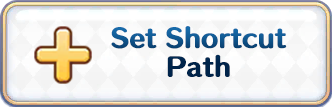
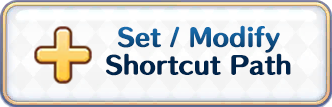
Modify Launch setting from

Changed region(s): [[0.3313, 0.2243, 0.8735, 0.5047], [0.3012, 0.5047, 0.8735, 0.729]]

diff --git a/PriconneReTLInstaller/LauncherForm.Designer.cs b/PriconneReTLInstaller/LauncherForm.Designer.cs
@@ -36,9 +36,6 @@
             this.launcherComboBox = new System.Windows.Forms.ComboBox();
             this.setFastlauncherLinkLabel = new System.Windows.Forms.Label();
             this.dmmfastlauncherLabel = new System.Windows.Forms.Label();
-            this.saveButton = new System.Windows.Forms.Button();
-            this.launcherLabel = new System.Windows.Forms.Label();
-            this.currentLauncherLabel = new System.Windows.Forms.Label();
             this.panel1 = new System.Windows.Forms.Panel();
             this.shortcutAddButton = new System.Windows.Forms.Button();
             this.shortcutRemoveButton = new System.Windows.Forms.Button();
@@ -128,62 +125,20 @@
             this.dmmfastlauncherLabel.BackColor = System.Drawing.Color.Transparent;
             this.dmmfastlauncherLabel.Font = new System.Drawing.Font("Microsoft Sans Serif", 9.75F, System.Drawing.FontStyle.Bold, System.Drawing.GraphicsUnit.Point, ((byte)(238)));
             this.dmmfastlauncherLabel.ForeColor = System.Drawing.Color.Red;
-            this.dmmfastlauncherLabel.Location = new System.Drawing.Point(12, 110);
+            this.dmmfastlauncherLabel.Location = new System.Drawing.Point(7, 62);
             this.dmmfastlauncherLabel.Name = "dmmfastlauncherLabel";
             this.dmmfastlauncherLabel.Size = new System.Drawing.Size(570, 22);
             this.dmmfastlauncherLabel.TabIndex = 36;
             this.dmmfastlauncherLabel.Text = "DMMGamePlayerFastLauncher not installed! Falling back to DMMGamePlayer!";
             this.dmmfastlauncherLabel.Visible = false;
             // 
-            // saveButton
-            // 
-            this.saveButton.BackColor = System.Drawing.Color.Transparent;
-            this.saveButton.BackgroundImage = global::PriconneReTLInstaller.Properties.Resources.save_button_disabled;
-            this.saveButton.BackgroundImageLayout = System.Windows.Forms.ImageLayout.Stretch;
-            this.saveButton.Enabled = false;
-            this.saveButton.FlatAppearance.BorderSize = 0;
-            this.saveButton.FlatAppearance.MouseDownBackColor = System.Drawing.Color.Transparent;
-            this.saveButton.FlatAppearance.MouseOverBackColor = System.Drawing.Color.Transparent;
-            this.saveButton.FlatStyle = System.Windows.Forms.FlatStyle.Flat;
-            this.saveButton.Location = new System.Drawing.Point(351, 12);
-            this.saveButton.Name = "saveButton";
-            this.saveButton.Size = new System.Drawing.Size(152, 48);
-            this.saveButton.TabIndex = 37;
-            this.saveButton.UseVisualStyleBackColor = false;
-            this.saveButton.EnabledChanged += new System.EventHandler(this.saveButton_EnabledChanged);
-            this.saveButton.Click += new System.EventHandler(this.saveButton_Click);
-            // 
-            // launcherLabel
-            // 
-            this.launcherLabel.AutoSize = true;
-            this.launcherLabel.BackColor = System.Drawing.Color.Transparent;
-            this.launcherLabel.Font = new System.Drawing.Font("Microsoft Sans Serif", 9.75F, System.Drawing.FontStyle.Regular, System.Drawing.GraphicsUnit.Point, ((byte)(238)));
-            this.launcherLabel.Location = new System.Drawing.Point(11, 61);
-            this.launcherLabel.Name = "launcherLabel";
-            this.launcherLabel.Size = new System.Drawing.Size(127, 16);
-            this.launcherLabel.TabIndex = 38;
-            this.launcherLabel.Text = "Current launcher set:";
-            // 
-            // currentLauncherLabel
-            // 
-            this.currentLauncherLabel.AutoSize = true;
-            this.currentLauncherLabel.BackColor = System.Drawing.Color.Transparent;
-            this.currentLauncherLabel.Font = new System.Drawing.Font("Microsoft Sans Serif", 9.75F, System.Drawing.FontStyle.Regular, System.Drawing.GraphicsUnit.Point, ((byte)(238)));
-            this.currentLauncherLabel.Location = new System.Drawing.Point(144, 61);
-            this.currentLauncherLabel.Name = "currentLauncherLabel";
-            this.currentLauncherLabel.Size = new System.Drawing.Size(115, 16);
-            this.currentLauncherLabel.TabIndex = 39;
-            this.currentLauncherLabel.Text = "DMMGamePlayer";
-            // 
             // panel1
             // 
             this.panel1.BackColor = System.Drawing.Color.Transparent;
             this.panel1.BorderStyle = System.Windows.Forms.BorderStyle.FixedSingle;
             this.panel1.Controls.Add(this.setLauncherLabel);
-            this.panel1.Controls.Add(this.saveButton);
-            this.panel1.Controls.Add(this.launcherLabel);
-            this.panel1.Controls.Add(this.currentLauncherLabel);
             this.panel1.Controls.Add(this.launcherComboBox);
+            this.panel1.Controls.Add(this.dmmfastlauncherLabel);
             this.panel1.Location = new System.Drawing.Point(12, 12);
             this.panel1.Name = "panel1";
             this.panel1.Size = new System.Drawing.Size(571, 90);
@@ -233,7 +188,7 @@
             this.panel2.Controls.Add(this.setFastlauncherLinkLabel);
             this.panel2.Controls.Add(this.shortcutRemoveButton);
             this.panel2.Controls.Add(this.shortcutAddButton);
-            this.panel2.Location = new System.Drawing.Point(12, 135);
+            this.panel2.Location = new System.Drawing.Point(12, 108);
             this.panel2.Name = "panel2";
             this.panel2.Size = new System.Drawing.Size(570, 112);
             this.panel2.TabIndex = 41;
@@ -243,11 +198,10 @@
             this.AutoScaleDimensions = new System.Drawing.SizeF(6F, 13F);
             this.AutoScaleMode = System.Windows.Forms.AutoScaleMode.Font;
             this.BackgroundImage = global::PriconneReTLInstaller.Properties.Resources.bg2;
-            this.ClientSize = new System.Drawing.Size(640, 261);
+            this.ClientSize = new System.Drawing.Size(640, 233);
             this.ControlBox = false;
             this.Controls.Add(this.panel2);
             this.Controls.Add(this.panel1);
-            this.Controls.Add(this.dmmfastlauncherLabel);
             this.Controls.Add(this.backButton);
             this.FormBorderStyle = System.Windows.Forms.FormBorderStyle.FixedSingle;
             this.Name = "LauncherForm";
@@ -270,9 +224,6 @@
         private System.Windows.Forms.ComboBox launcherComboBox;
         private System.Windows.Forms.Label setFastlauncherLinkLabel;
         private System.Windows.Forms.Label dmmfastlauncherLabel;
-        private System.Windows.Forms.Button saveButton;
-        private System.Windows.Forms.Label launcherLabel;
-        private System.Windows.Forms.Label currentLauncherLabel;
         private System.Windows.Forms.Panel panel1;
         private System.Windows.Forms.Button shortcutAddButton;
         private System.Windows.Forms.Button shortcutRemoveButton;

diff --git a/PriconneReTLInstaller/LauncherForm.cs b/PriconneReTLInstaller/LauncherForm.cs
@@ -27,8 +27,13 @@ namespace PriconneReTLInstaller
             shortcutRemoveButton.MouseEnter += OnButtonMouseEnter;
             shortcutRemoveButton.MouseLeave += OnButtonMouseLeave;
 
-            saveButton.MouseEnter += OnButtonMouseEnter;
-            saveButton.MouseLeave += OnButtonMouseLeave;
+            panel1.MouseDown += OnMouseDown;
+            panel1.MouseMove += OnMouseMove;
+            panel1.MouseUp += OnMouseUp;
+
+            panel2.MouseDown += OnMouseDown;
+            panel2.MouseMove += OnMouseMove;
+            panel2.MouseUp += OnMouseUp;
 
         }
 
@@ -39,7 +44,6 @@ namespace PriconneReTLInstaller
                 if (button == backButton) button.BackgroundImage = Resources.back_arrow_lit;
                 if (button == shortcutAddButton) button.BackgroundImage = Resources.shortcutadd_button_lit;
                 if (button == shortcutRemoveButton && button.Enabled) button.BackgroundImage = Resources.shortcutremove_button_lit;
-                if (button == saveButton && button.Enabled) button.BackgroundImage = Resources.save_button_lit;
             }
         }
 
@@ -50,7 +54,6 @@ namespace PriconneReTLInstaller
                 if (button == backButton) button.BackgroundImage = Resources.back_arrow;
                 if (button == shortcutAddButton) button.BackgroundImage = Resources.shortcutadd_button;
                 if (button == shortcutRemoveButton && button.Enabled) button.BackgroundImage = Resources.shortcutremove_button;
-                if (button == saveButton && button.Enabled) button.BackgroundImage = Resources.save_button;
             }
         }
 
@@ -71,13 +74,11 @@ namespace PriconneReTLInstaller
 
             helper.PopulateLauncherComboBox(launcherComboBox);
             launcherComboBox.SelectedIndex = Settings.Default.selectedLauncher;
-            saveButton.Enabled = false;
         }
         private void UpdateUI()
         {
             shortcutPathLabel.Text = Settings.Default.fastLauncherLink == "" ? "Not Set!" : Settings.Default.fastLauncherLink;
             shortcutRemoveButton.Enabled = Settings.Default.fastLauncherLink == "" ? false : true;
-            currentLauncherLabel.Text = Settings.Default.selectedLauncher == 0 ? "DMMGamePlayer" : "DMMGamePlayerFastLauncher";
         }
 
         private void backButton_Click(object sender, EventArgs e)
@@ -143,12 +144,11 @@ namespace PriconneReTLInstaller
             Settings.Default.selectedLauncher = launcherComboBox.SelectedIndex;
             MessageBox.Show($"Launcher set to: {launcherComboBox.SelectedItem.ToString()}", "Launcher Set!", MessageBoxButtons.OK, MessageBoxIcon.Information);
             Settings.Default.Save();
-            saveButton.Enabled = false;
         }
 
         private void saveButton_EnabledChanged(object sender, EventArgs e)
         {
-            saveButton.BackgroundImage = saveButton.Enabled ? Resources.save_button : Resources.save_button_disabled;
+
         }
     }
 
